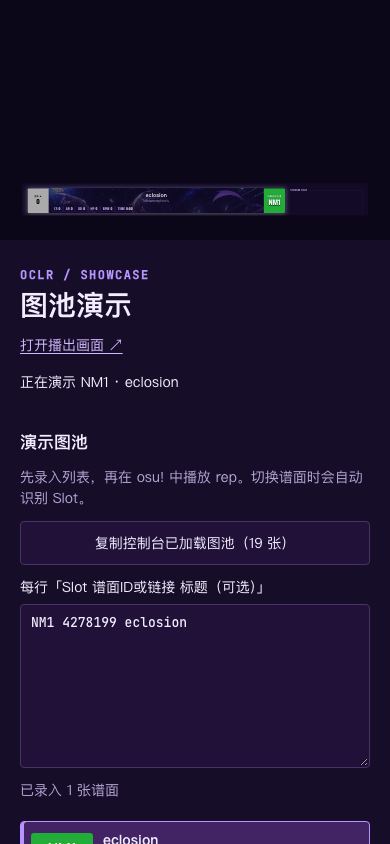
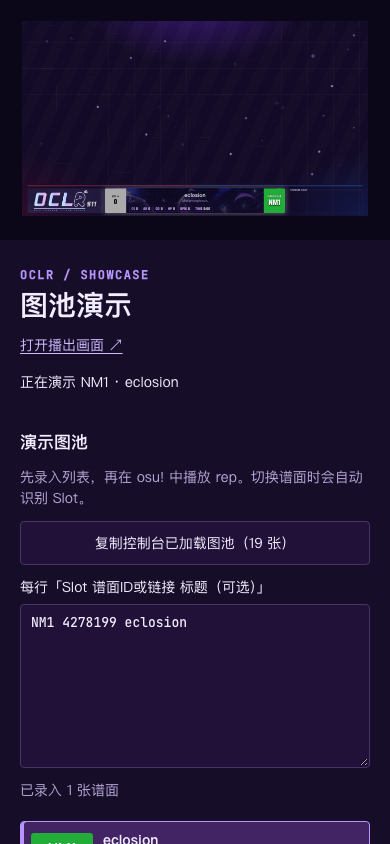
showcase: Match Playing footer and reuse Winner backdrop

diff --git a/ui/components/ShowcasePage.vue b/ui/components/ShowcasePage.vue
@@ -8,6 +8,9 @@ import type { MapInfoSource } from '../mapInfo';
 import MapInfoCard from './MapInfoCard.vue';
 import ChatBox from './ChatBox.vue';
 import ObsSettings from './ObsSettings.vue';
+import SpectrumGrid from './SpectrumGrid.vue';
+import BroadcastAmbient from './BroadcastAmbient.vue';
+import seasonLogo from '../assets/oclr-s11-logo.webp';
 import '../showcase.css';
 
 const clean = new URLSearchParams(location.search).get('clean') === '1';
@@ -87,14 +90,21 @@ HD1 https://osu.ppy.sh/beatmaps/具体难度ID"
           <span><strong>{{ map.title || `谱面 #${map.beatmapId}` }}</strong><small>{{ map.difficulty || `#${map.beatmapId}` }}</small></span>
         </li>
       </ul>
-      <p class="showcase-help">使用 tosu 读取 osu! 普通客户端的当前谱面。游戏画面在 OBS 中自行添加，放在 Showcase 浏览器源下方，并完整缩放到上方预留区域。</p>
+      <p class="showcase-help">使用 tosu 读取 osu! 普通客户端的当前谱面。在 OBS 自行添加回放采集源，放到 Showcase 浏览器源上方，并完整缩放到上半区；16:9 画面可使用 1600×900，位置 (160, 0)。</p>
       <ShowcaseObsSetup />
     </aside>
     <main class="canvas-stage" ref="stage" aria-label="Showcase 画面预览">
       <div class="canvas-sizer" :style="{ width: `${1920 * scale}px`, height: `${1080 * scale}px` }">
         <div class="broadcast-canvas showcase-canvas" :style="{ transform: `scale(${scale})` }" aria-label="1920×1080 图池 Showcase 播出画布" data-showcase-canvas>
-          <div class="showcase-game" data-showcase-capture aria-label="单客户端回放演示区域"></div>
+          <div class="showcase-stage-ambient" aria-hidden="true">
+            <SpectrumGrid />
+            <BroadcastAmbient />
+          </div>
+          <div class="showcase-game victory-body" data-showcase-capture aria-label="单客户端回放演示区域，游戏采集在 OBS 中叠放到本背景上方"></div>
           <footer class="showcase-footer">
+            <div class="showcase-logo">
+              <img :src="seasonLogo" width="1200" height="1200" alt="OCLR S11 比赛 Logo" decoding="async">
+            </div>
             <MapInfoCard :source="source" />
             <ChatBox source="stream" compact />
           </footer>

diff --git a/ui/showcase.css b/ui/showcase.css
@@ -29,12 +29,15 @@
 .showcase-controls .obs-settings summary { cursor: pointer; min-height: 44px; }
 .showcase-controls .obs-settings :is(.setup-meta, .operator-inline) { display: grid; gap: 8px; }
 .showcase-app .canvas-stage { min-width: 0; border: 0; }
-/* The one replay fills the upper 1920×900 area; only the lower 180px draws UI.
-   No background or decorative layer can cover an operator's game capture. */
-.showcase-app .showcase-canvas { background: transparent; }
-.showcase-game { position: absolute; inset: 0 0 180px; background: transparent; pointer-events: none; }
-.showcase-footer { position: absolute; inset: 900px 0 0; overflow: hidden; background: var(--canvas); }
-.showcase-footer .map-row { position: absolute; left: 30px; top: 28px; width: 1430px; margin: 0; }
+/* Use Winner's canvas, grid, ambient diamonds and victory-body stripe motion.
+   OBS places the one replay above this backdrop, confined to the upper area. */
+.showcase-stage-ambient { position: absolute; inset: 0; clip-path: inset(0 0 180px); pointer-events: none; }
+.showcase-canvas .showcase-game { position: absolute; inset: 0 0 180px; pointer-events: none; }
+.showcase-footer { position: absolute; inset: 900px 0 0; overflow: hidden; }
+.showcase-footer::before { position: absolute; top: 14px; left: 30px; right: 30px; height: 2px; background: linear-gradient(90deg, var(--team-a) 0 50%, var(--team-b) 50% 100%); pointer-events: none; content: ''; }
+.showcase-logo { position: absolute; left: 30px; top: 28px; width: 420px; height: 138px; overflow: hidden; border-radius: var(--radius-panel); }
+.showcase-logo img { display: block; width: 100%; height: 100%; object-fit: cover; object-position: center; }
+.showcase-footer .map-row { position: absolute; left: 460px; top: 28px; width: 1000px; margin: 0; }
 .showcase-footer .chat-box { position: absolute; left: 1470px; top: 28px; width: 420px; height: 138px; }
 .showcase-clean .canvas-stage { padding: 0; background: transparent; }
 body.is-showcase { background: transparent; }

diff --git a/test/ui-serving.test.js b/test/ui-serving.test.js
@@ -22,6 +22,7 @@ test('built UI serves only generated files and never exposes source, credentials
   await writeFile(join(dist, 'index.html'), '<!doctype html><div id="app"></div>');
   await writeFile(join(dist, 'assets/index-Ab12.js'), 'export const demo = true;');
   await writeFile(join(dist, 'assets/violet-CD34.svg'), '<svg/>');
+  await writeFile(join(dist, 'assets/season-Ab12.webp'), Buffer.from('RIFF-test-logo'));
   const config = { port: 0, mode: 'anonymous' };
   let upstreamRequests = 0;
   const server = createOverlayServer(config, async () => { upstreamRequests += 1; throw new Error('UNEXPECTED_API_CALL'); }, dist);
@@ -40,6 +41,9 @@ test('built UI serves only generated files and never exposes source, credentials
   assert.match(script.headers.get('content-type'), /javascript/);
   assert.match(script.headers.get('cache-control'), /immutable/);
   assert.match(await script.text(), /demo = true/);
+  const logo = await fetch(`${base}/assets/season-Ab12.webp`);
+  assert.equal(logo.status, 200);
+  assert.equal(logo.headers.get('content-type'), 'image/webp');
   for (const path of ['/.env.local', '/assets/%2e%2e%2f.env.local', '/assets/../.env.local', '/assets/missing.js', '/ui/model.ts', '/server/config.js', '/package.json', '/not-a-scene']) {
     const response = await fetch(base + path);
     assert.equal(response.status, 404, path);

diff --git a/server/app.js b/server/app.js
@@ -21,9 +21,9 @@ const RESOURCES = [
 const MODULES = ['index', 'oclr', 'tosu', 'broadcast'];
 const MAX_BYTES = 2 * 1024 * 1024;
 const UI_ROOT = fileURLToPath(new URL('../dist/', import.meta.url));
-const UI_ASSET = /^\/assets\/[A-Za-z0-9_-]+\.(?:js|css|svg|md|woff2?)$/;
+const UI_ASSET = /^\/assets\/[A-Za-z0-9_-]+\.(?:js|css|svg|webp|md|woff2?)$/;
 const MIME = { '.js': 'text/javascript; charset=utf-8', '.css': 'text/css; charset=utf-8',
-  '.svg': 'image/svg+xml', '.md': 'text/markdown; charset=utf-8', '.woff': 'font/woff', '.woff2': 'font/woff2' };
+  '.svg': 'image/svg+xml', '.webp': 'image/webp', '.md': 'text/markdown; charset=utf-8', '.woff': 'font/woff', '.woff2': 'font/woff2' };
 
 // Serve only the generated index and flat, named Vite assets. Never fall back
 // to the project directory, source files, .env files, or arbitrary SPA paths.

diff --git a/ui/components/ObsSettings.vue b/ui/components/ObsSettings.vue
@@ -55,7 +55,7 @@ function editChat(event: Event) {
           <button :disabled="!!obs.pending" @click="obs.act('create-showcase')">{{ obs.pending === 'create-showcase' ? '正在创建 Showcase 场景…' : '创建 Showcase 场景' }}</button>
           <button :disabled="!!obs.pending" @click="obs.act('disconnect')">断开连接</button>
         </div>
-        <p>创建 1920×1080 的独立 Showcase 浏览器源。请自行添加 osu! 游戏画面并放在它下方，再在 OBS 切到 Showcase 场景。</p>
+        <p>创建 1920×1080 的独立 Showcase 背景浏览器源。请自行添加 osu! 回放采集并放在它上方，完整缩放到上半区，再在 OBS 切到 Showcase 场景。</p>
         <p v-if="obs.state.showcase" role="status">Showcase 场景已就绪。</p>
       </template>
       <template v-else>

diff --git a/docs/verification/showcase/README.md b/docs/verification/showcase/README.md
@@ -10,21 +10,23 @@
 
 当前 Slot 只由新鲜普通客户端谱面 ID 唯一匹配。池外／重复 ID 时 Slot 为 `—`，仍显示真实客户端谱面信息；断线、过期、无谱面或有效赛事房间／选手时清除旧的实时显示。零值参数保留，空 tourney 占位结构按[官方 v2 格式](https://github.com/tosuapp/tosu/wiki/v2-websocket-api-response)兼容。此路径不要求比赛 Playing，不发出比赛命令或改变 Ban/Pick、局次、比分、赛果、场景和撤销历史。
 
-1920×1080 上方 1920×900 为透明游戏区，底部只保留 Playing 同款谱面卡 (30,928) 1430×138 与 Stream Chat (1470,928) 420×138。OBS 独立创建仅添加浏览器源，游戏采集由直播员配置。
+1920×1080 上方 1920×900 改为 Winner 同款背景与动态效果：深紫渐光／静态网格、共用网格光段与环境菱形、13.24s 斜条纹。底部恢复 Playing 三段几何：S11 Logo (30,928) 420×138，谱面卡 (460,928) 1000×138，Stream Chat (1470,928) 420×138；不显示 Match Chat。回放采集由直播员放到 OBS 浏览器背景源上方，并限制在上半区。
+
+## S11 Logo 来源
+
[1 lines of base64/hex data omitted]
 
 ## 验证结果
 
-- `npm run build`（含 Vue 类型检查）与 `git diff --check` 通过，构建仅在隔离工作树。
-- 主要回归 **528 项通过**；便携版 **2 项**在临时副本中将固定 3001 替换为空闲端口 **57800** 后通过，共 **530 项**。原 3001 服务保持运行。
-- Showcase／媒体／OBS／HTTP 专项 **29 项**通过，覆盖独立录入与重启、旧设置迁移、实际 ID／URL 解析、部分无效列表不应用、无效／重复 Slot、清池、池外／重复 ID、空 tourney、断线／过期／空谱面、数据零值、跨页面 SSE、同源写入、媒体访问范围和便携版晚恢复会话。
-- OBS 模拟回归覆盖仅创建独立浏览器源、不添加游戏／窗口／音频源、不切 Program、不启用比赛跟随、常规／EX 摆位保留、重复创建与中断重试、同名／替换保护、三场景共用弹幕输入。
-- 浏览器使用独立临时 WebSocket 服务 → 真实 `TosuClient` → 归一化 → Showcase SSE → 两个页面的完整链路。发送普通客户端形状的信号后，NM1 自动变为 NM2；没有手工选择或任何 Slot 切换命令。刷新继续跟随当前客户端谱面。
-- 浏览器同时检查图池文本自动同步；池外、重复 ID 显示 `—`；无效行保留原图池和草稿（实时换图不覆盖草稿）；停发信号后清除旧谱面（隔离客户端超时缩短为 700ms），恢复后继续匹配；1440×1000 和 390×844 无溢出，干净输出不请求比赛会话或 OBS 管理 API。
-- 八组 Playing 人数／比例／EX 捕获与 1000×138 谱面卡几何保持。详情见 [浏览器量测](browser-checks.json)。浏览器无 exception、error 或 warning，比赛会话前后深比较相同。
+- 本轮 `npm run build`（含 Vue 类型检查）与 `git diff --check` 通过，构建仅在隔离工作树。
+- Showcase／OBS／HTTP 专项 **40 项**通过，包括独立图池、自动 Slot、跨页面 SSE、图片文件类型与访问边界，以及独立 OBS 创建／重试／常规 EX 保持等回归。
+- 浏览器以独立 WebSocket → 真实 `TosuClient` → 归一化 → Showcase SSE → 两个页面检查 NM1 自动变为 NM2。图池自动同步、非法行保持、池外／重复 ID、断线清除与恢复、刷新跟随保持。
+- 1920×1080 几何复核：Logo／谱面卡／Stream Chat 的位置与 Playing 三段布局一致；Logo 成功解码 1200×1200 本地 WebP。Winner 斜纹周期 13.24s，36 个共用环境菱形与网格光段存在；换图后装饰节点保持同一个 DOM，减少动态偏好下斜纹和菱形动画关闭、网格光段隐藏。
+- 1440×1000 操作页与 390×844 手机页无横向溢出；独立干净输出不请求比赛会话或 OBS 管理 API。八组 Playing 人数／比例／EX 捕获与 1000×138 谱面卡几何保持。详情见 [浏览器量测](browser-checks.json)。浏览器无 exception、error 或 warning，比赛会话前后深比较相同。
 
 浏览器复制了现有 3001 服务已加载的完整 19 张图池，仅用于隔离验证，未增造谱面或写回原比赛。WebSocket 信号与截图中的零值参数是**明确的合成验证信号**，不代表谱面正式参数或真实回放。池外／重复映射为故障注入测试，未改官方图池。
 
-[独立输出](showcase-1920.png) · [桌面录入与自动匹配](selection-1440.png) · [手机操作](selection-390.png)
+[等待客户端时的输出](showcase-empty-1920.png) · [已匹配谱面的输出](showcase-1920.png) · [桌面录入与自动匹配](selection-1440.png) · [手机操作](selection-390.png)
 
 ## 实机边界
 

diff --git a/README.md b/README.md
@@ -55,7 +55,7 @@ npm run watch
 打开 `/showcase`，先录入演示图池，每行「Slot 谱面ID或链接 标题（可选）」，例如 `NM1 4278199 eclosion`；也可点击「复制控制台已加载图池」。支持 osu! 具体难度链接，图集链接须带 `#osu/难度ID`。输入停顿或离开输入框后自动同步，无需保存。图池单独写入比赛文件同目录的 `showcase.json`，后续控制台换场或改图池不会覆盖它。
 
 让 tosu 读取 osu! 普通客户端，在客户端选择谱面或运行 rep；Showcase 按当前谱面 ID 自动匹配 Slot，并同步曲名、难度、封面及可用参数，不需要手工选图或切 Slot。只有唯一匹配时才显示图池 Slot；池外或同一 ID 对应多个 Slot 时显示 `—`，操作区说明原因。断线、过期、无有效谱面或有效赛事客户端数据不会保留上张图的实时显示。
-在页面的「Showcase 的 OBS 设置」中连接本机 OBS，然后点击「创建 Showcase 场景」。会创建 `OCLR · Showcase` 和 1920×1080 的独立 `/showcase?clean=1` 浏览器源；不会自动切 Program。已有直播身份码时会复用同一弹幕源，也可在 Showcase 设置中粘贴身份码。osu! 普通客户端运行单张谱面的 rep 后，请自行在 OBS 添加游戏／窗口采集源并放到 Showcase 浏览器源下方。上方 1920×900 区域透明，底部只显示 Playing 同款谱面信息与 `STREAM CHAT`。
+在页面的「Showcase 的 OBS 设置」中连接本机 OBS，然后点击「创建 Showcase 场景」。会创建 `OCLR · Showcase` 和 1920×1080 的独立 `/showcase?clean=1` 浏览器源；不会自动切 Program。已有直播身份码时会复用同一弹幕源，也可在 Showcase 设置中粘贴身份码。osu! 普通客户端运行单张谱面的 rep 后，请自行在 OBS 添加回放采集源并放到 Showcase 浏览器源上方；16:9 画面可设为 1600×900、位置 (160,0)，完整放在上半区。上半区复用 Winner 的深紫背景与动态效果；底部按 Playing 排列 S11 官方比赛 Logo、1000×138 谱面卡和 `STREAM CHAT`。
 
 谱面跟随复用服务端当前已连接的 tosu 数据，不另建浏览器直连。Showcase 的图池与自动显示不修改比赛 Ban/Pick、局次、比分、场景或自动化；`/overlay` 继续承担原比赛输出。真实 Windows 单客户端 rep、tosu 与 OBS 合成仍需实机验收，隔离验证见 [Showcase 验证](docs/verification/showcase/README.md)。
 

diff --git a/DESIGN.md b/DESIGN.md
@@ -442,7 +442,7 @@ BanchoBot 名称不区分大小写，或消息明确标为 `bot` 时，昵称优
 
 `/showcase` 先录入演示图池，再自动跟随普通 osu! 客户端经 tosu 提供的当前谱面，`/showcase?clean=1` 为独立 OBS 浏览器源。Slot 由谱面 ID 唯一匹配，不提供手工切 Slot、上一张／下一张或可选的谱面跟随开关。录入支持 Slot + 谱面 ID／具体难度链接 + 可选标题，也可显式复制控制台已加载图池；输入停顿／失焦自动同步。图池独立保存在 `showcase.json`，后续比赛换场或控制台图池调整不覆盖演示图池。
 
-1920×1080 上方 1920×900 保持透明，供直播员自行配置普通 osu! 客户端的单 rep 捕获；底部 180px 内仅保留谱面信息与 Stream Chat。Playing 与 Showcase 共用 `MapInfoCard`，保留字号、背景图、星数、参数和完整图池槽位样式；Showcase 使用 x=30、y=928、1430×138 的宽卡，Stream Chat 仍为 x=1470、y=928、420×138。
+1920×1080 上方 1920×900 复用 Winner 的深紫渐光／网格底、`SpectrumGrid`、`BroadcastAmbient` 和 `.victory-body` 的 13.24s 无缝斜条纹动态；装饰独立挂载，实时换图不重建，减少动态偏好下停动。回放采集由直播员在 OBS 中放到浏览器背景源上方，16:9 可用 1600×900、位置 (160,0)。底部按 Playing 的三段几何排列：S11 比赛 Logo (30,928) 420×138、共用 `MapInfoCard` (460,928) 1000×138、Stream Chat (1470,928) 420×138；保留 Playing 的红蓝细分隔线，不显示 Match Chat。Logo 来自官网 S11 公开配置中的 `branding.logo`，本地打包原始 WebP，以容器裁切上下留白。
 
 专用 API／SSE 同步独立图池和当前客户端显示，不发送比赛命令。普通客户端数据必须新鲜且有有效谱面 ID；唯一匹配显示 Slot，池外或重复 ID 显示真实客户端谱面信息但 Slot 为 `—`，操作区说明原因。断线、过期、空谱面或有效赛事房间／选手数据清除实时显示，不沿用旧 Slot 或参数。空 tourney 占位字段不视为有效赛事数据。独立图池可读取现有封面／元数据服务；未匹配条目不请求池内计算参数。
 
